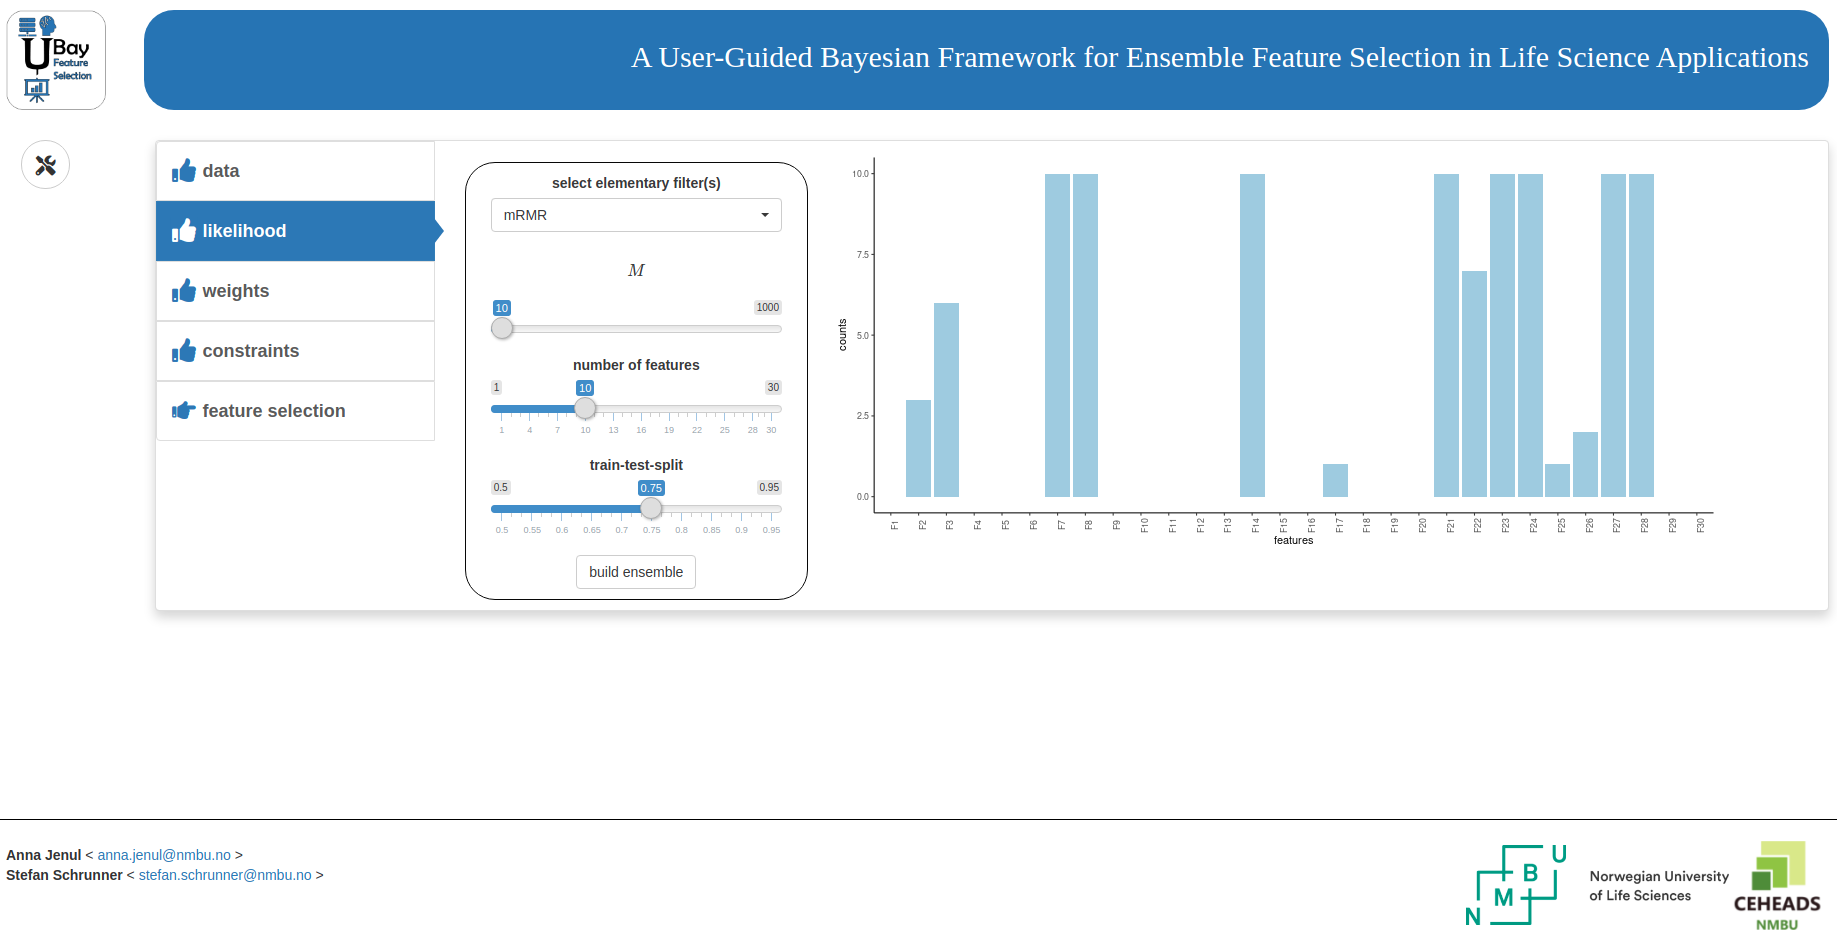
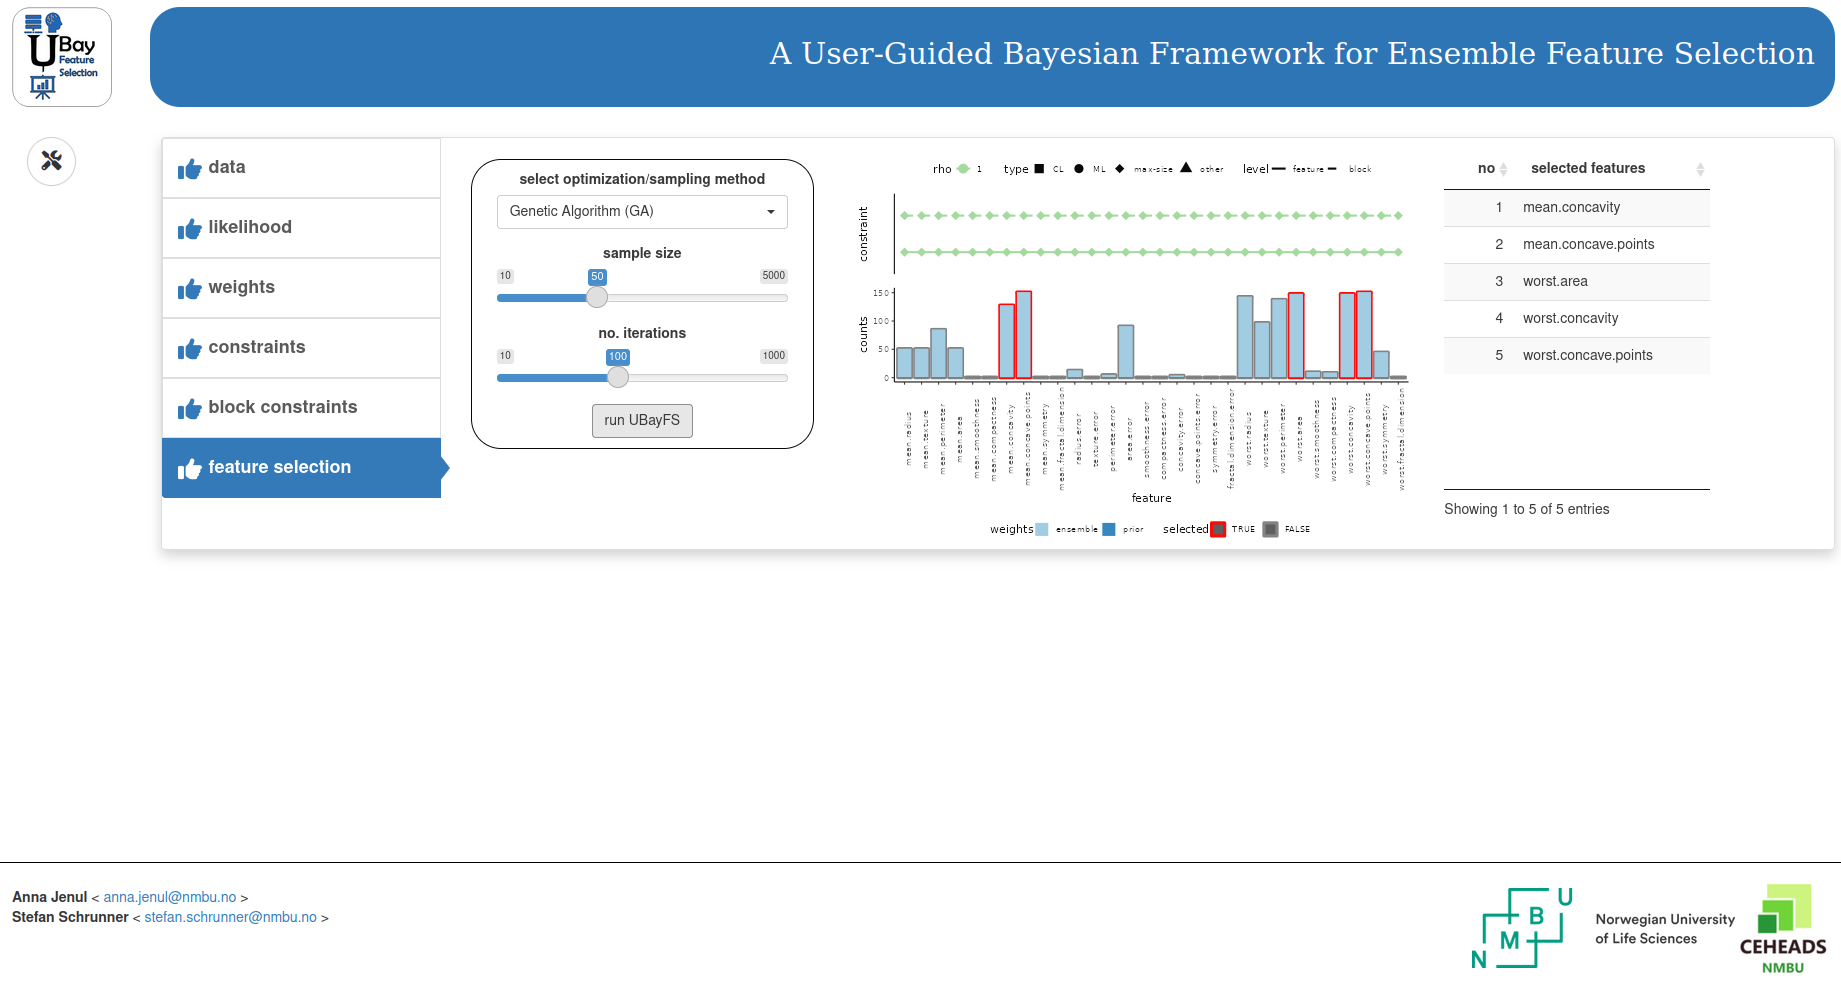
update documentation

diff --git a/vignettes/paper.md b/vignettes/paper.md
@@ -20,18 +20,16 @@ affiliations:
   index: 1
 ---
 
-# Statement of Need
+# Summary and Statement of Need
 
-Restricting input to the most informative features can help to reduce (a) the complexity of a machine learning algorithm and (b) noise within the data. Moreover, feature selection paves the way for interpretations within the dataset since factors with influence on the target variable may be identified. In the longer run, costs can be reduced by avoiding to collect features from expensive sources if their individual contributions are low. 
+The UBayFS package implements the framework with the same name, proposed in @jenul2022ubayfs, incorporating information from the data and prior knowledge from domain experts. With its generic setup, the method is extremely flexible in specifying side constraints, which is usually impossible with classical feature selectors. While, in most cases, a maximum number of features may be provided to a feature selection algorithm, further constraints between features are not covered by state-of-the-art methods. For instance, a user might be interested in selecting features from a low number of feature groups or might want to avoid selecting redundant features jointly. UBayFS has the potential to 
+- cover both expert knowledge and information from an ensemble of elementary feature selectors, as well as 
+- consider constraints on the feature set as side conditions during optimization. The framework is demonstrated in Figure \autoref{fig:UBayFS}.
 
-Commonly, two sources of information are available in many application domains of machine learning: information from the data and domain knowledge from experts. Prior information from domain experts, along with taking multiple model runs into account (ensemble feature selection on the data) stabilizes the feature selection process and provides reliable and trustworthy results.
+The UBayFS package provides an R implementation together with an interactive Shiny dashboard, which makes feature selection applicable for R-users with different levels of expertise. UBayFS is an ensemble feature selection technique embedded in a Bayesian statistical framework. The method combines data and user knowledge, where the first is extracted via data-driven ensemble feature selection. Due to the generic structure of the method, any available feature selection method, such as Fisher score, Laplacian score, mRMR can be used for building the ensemble. The user can control the feature selection by assigning prior weights to features and penalizing specific feature combinations. In particular, the user can define a maximal number of selected features and must-link constraints (features must be selected together) or cannot-link constraints (features must not be selected together). Must-link constraint can also be used for block feature selection(a problem conventionally tackled by group lasso @sgl). UBayFS provides more flexibility to specify user input, and no latent parameter must be estimated. The cannot-link constraint is of special interest when multiple redundant features exist - putting them under one cannot-link constraint, only one feature can be selected. Using relaxed constraints, a parameter \rhoρ regulates the penalty shape. Hence, the violation of constraints can be valid but leads to penalizing a feature set.
 
-Furthermore, feature selection is often inflexible since side conditions cannot be properly specified. While, in most cases, a maximum number of features may be provided to a feature selection algorithm, further constraints between features are not covered by state-of-the-art methods. For instance, a user might be interested in selecting features from a low number of feature blocks (representing distinct data sources), or might want to avoid selecting redundant features in jointly. UBayFS is an ensemble feature selector with the potential to (a) cover both expert knowledge and information from an ensemble of elementary feature selectors, as well as (b) consider constraints on the feature set as side conditions during optimization.
 
-# Summary
-
-The UBayFS package implements the framework with the same name, proposed in @jenul2022ubayfs, together with an interactive Shiny dashboard, which makes UBayFS applicable for R-users with different levels of expertise. UBayFS is an ensemble feature selection technique embedded in a Bayesian statistical framework. The method combines data and user knowledge, where the first is extracted via data-driven ensemble feature selection. Due to the generic structure of the method, any available feature selection method, such as Fisher score, Laplacian score, mRMR can be used for building the ensemble. The user can control the feature selection by assigning prior weights to features and penalizing specific feature combinations. In particular, the user can define a maximal number of selected features and must-link constraints (features must be selected together) or cannot-link constraints (features must not be selected together). Must-link constraint can also be used for block feature selection(a problem conventionally tackled by group Lasso @sgl). UBayFS provides more flexibility to specify user input, and no latent parameter must be estimated. The cannot-link constraint is of special interest when multiple redundant features exist - putting them under one cannot-link constraint, only one feature can be selected. Using relaxed constraints, a parameter $\rho$ regulates the penalty shape. Hence, violation of constraints can be valid but leads to a penalization of a feature set  .  
-
+![UBayFS concept.\label{fig:UBayFS}](UBayFS_concept.png)
 
 # Concept and structure of UBayFS
 
@@ -70,7 +68,21 @@ The target function to select an optimal feature set $\boldsymbol{\delta}$ is gi
 $$\mathbb{E}_{\boldsymbol{\theta}|\boldsymbol{y}}[U(\boldsymbol{\delta}, \boldsymbol{\theta}(\boldsymbol{y}))] = \boldsymbol{\delta}^T \mathbb{E}_{\boldsymbol{\theta}|\boldsymbol{y}}[\boldsymbol{\theta}(\boldsymbol{y} )]-\lambda\kappa(\boldsymbol{\delta})\longrightarrow \underset{\boldsymbol{\delta}\in\{0,1\}^N}{\text{max}}
 $$
 
-The function `build.UBaymodel()` initializes the UBayFS model and computes the ensemble of elementary feature selectors. In the current version, linear feature selectors such as Fisher and Laplacian scores from `Rdimtools`[@you2020rdimtools] or mrmr `mRMRe`[@de2013mrmre] and the non-linear HSIC Lasso are supported as options [@gselection]. Using `buildConstraints()`, single-feature and block side constraints can be added to the model. Since constraints may be defined as soft constraints, the level of relaxation is steered with a parameter $\rho$. The functions `admissibility()` and `block_admissibility()` allow the user to evaluate the penalty term for a given feature set for a given set of constraints. After initializing the model and computing the ensembles, the `trainUbaymodel()` function optimizes the feature set via a genetic algorithm [@scrucca2013ga], such that an optimal feature set can be returned. Finally, the package features methods `print.UBaymodel()`, `plot.UBaymodel()`, `evaluateFS()` and `summary.UBaymodel()` to visualize the results. The function `runInteractive()` opens the Shiny dashboard, where the user can load and analyze data in an interactive way - however, the dashboard is not recommended for larger datasets ($> 50$ features or $>1000$ samples) due to computational limitations - instead, functions should be called from the R console in such cases. Two vignettes guide the user through the package and illustrate how to method can be deployed in different scenarios, including how to define user knowledge, how to set feature-wise constraints, and how to apply constraints on feature blocks.
+
+# Package structure
+The function `build.UBaymodel()` initializes the UBayFS model and computes the ensemble of elementary feature selectors. In the current version, among others, linear feature selectors such as Fisher and Laplacian scores from `Rdimtools`[@you2022rdimtools] or mrmr `mRMRe`[@de2013mrmre] or the non-linear HSIC Lasso are supported as options [@gselection]. In addition, the number of elementary models $M$ and the number of features selected in the elementary feature selectors are set. Inside the build function, the user can directly specify prior weights and constraints with `buildConstraints()` where single-feature and block side constraints can be added to the model. At least a max-size constraint must be set to ensure that the model selects a reasonable number of features (better explanation??). Since constraints may be defined as soft constraints, the level of relaxation is steered with a parameter $\rho$. The weights for single features or feature blocks are set with `setWeights()`.Further, parameters for the optimization step are initialized. 
+
+The functions `admissibility()` and `block_admissibility()` allow the user to evaluate the penalty term for a given feature set for a given set of constraints. After initializing the model and computing the ensembles, the `trainUbaymodel()` function optimizes the feature set via a genetic algorithm [@scrucca2013ga], such that an optimal feature set can be returned. Finally, the package features methods `print.UBaymodel()`, `plot.UBaymodel()`, `evaluateFS()` and `summary.UBaymodel()` to visualize the results. Two vignettes guide the user through the package and illustrate how to method can be deployed in different scenarios, including how to define user knowledge, how to set feature-wise constraints, and how to apply constraints on feature blocks.
+
+# Interactive Shiny dashboard
+ The function `runInteractive()` opens the Shiny dashboard where the user can load and analyze data in an interactive way - however, the dashboard is not recommended for larger datasets ($> 50$ features or $>1000$ samples) due to computational limitations - instead, functions should be called from the R console in such cases. \autoref{fig:Shiny} shows the dashboard with the different tasks:
+ - **data**: Load the dataset and specify whether rownames, colnames or a block structure is given.
+ - **likelihood**: Select elementary feature selectors for ensemble feature selection, the number of models $M$, the number of feature in each model $1,...,M$ and the size of the train-test split. It is possible to mix different elementary feature selectors.
+ - **weights**: The prior feature weights set by the user. For block feature selection, it is possible to set weights for blocks, otherwise for single feature.
+ - **constraints**: In this task, the user sets different constraints (at least a max-size constraint). The penalty $\rho$ can be varied here as well.
+ - **feature selection**: In the last step of the dashboard, the optimization of the feature set takes place. The final result is plotted and can be downloaded.
+
+ ![Shiny dashboard.\label{fig:Shiny}](UBay_Shiny_Screenshot.png)
 
 # Ongoing research
 Based on the present UBayFS package, ongoing work focuses on the implementation of even more types of expert constraints and elementary feature selection models. Moreover, a Python package with similar functionality is planned in the future.
